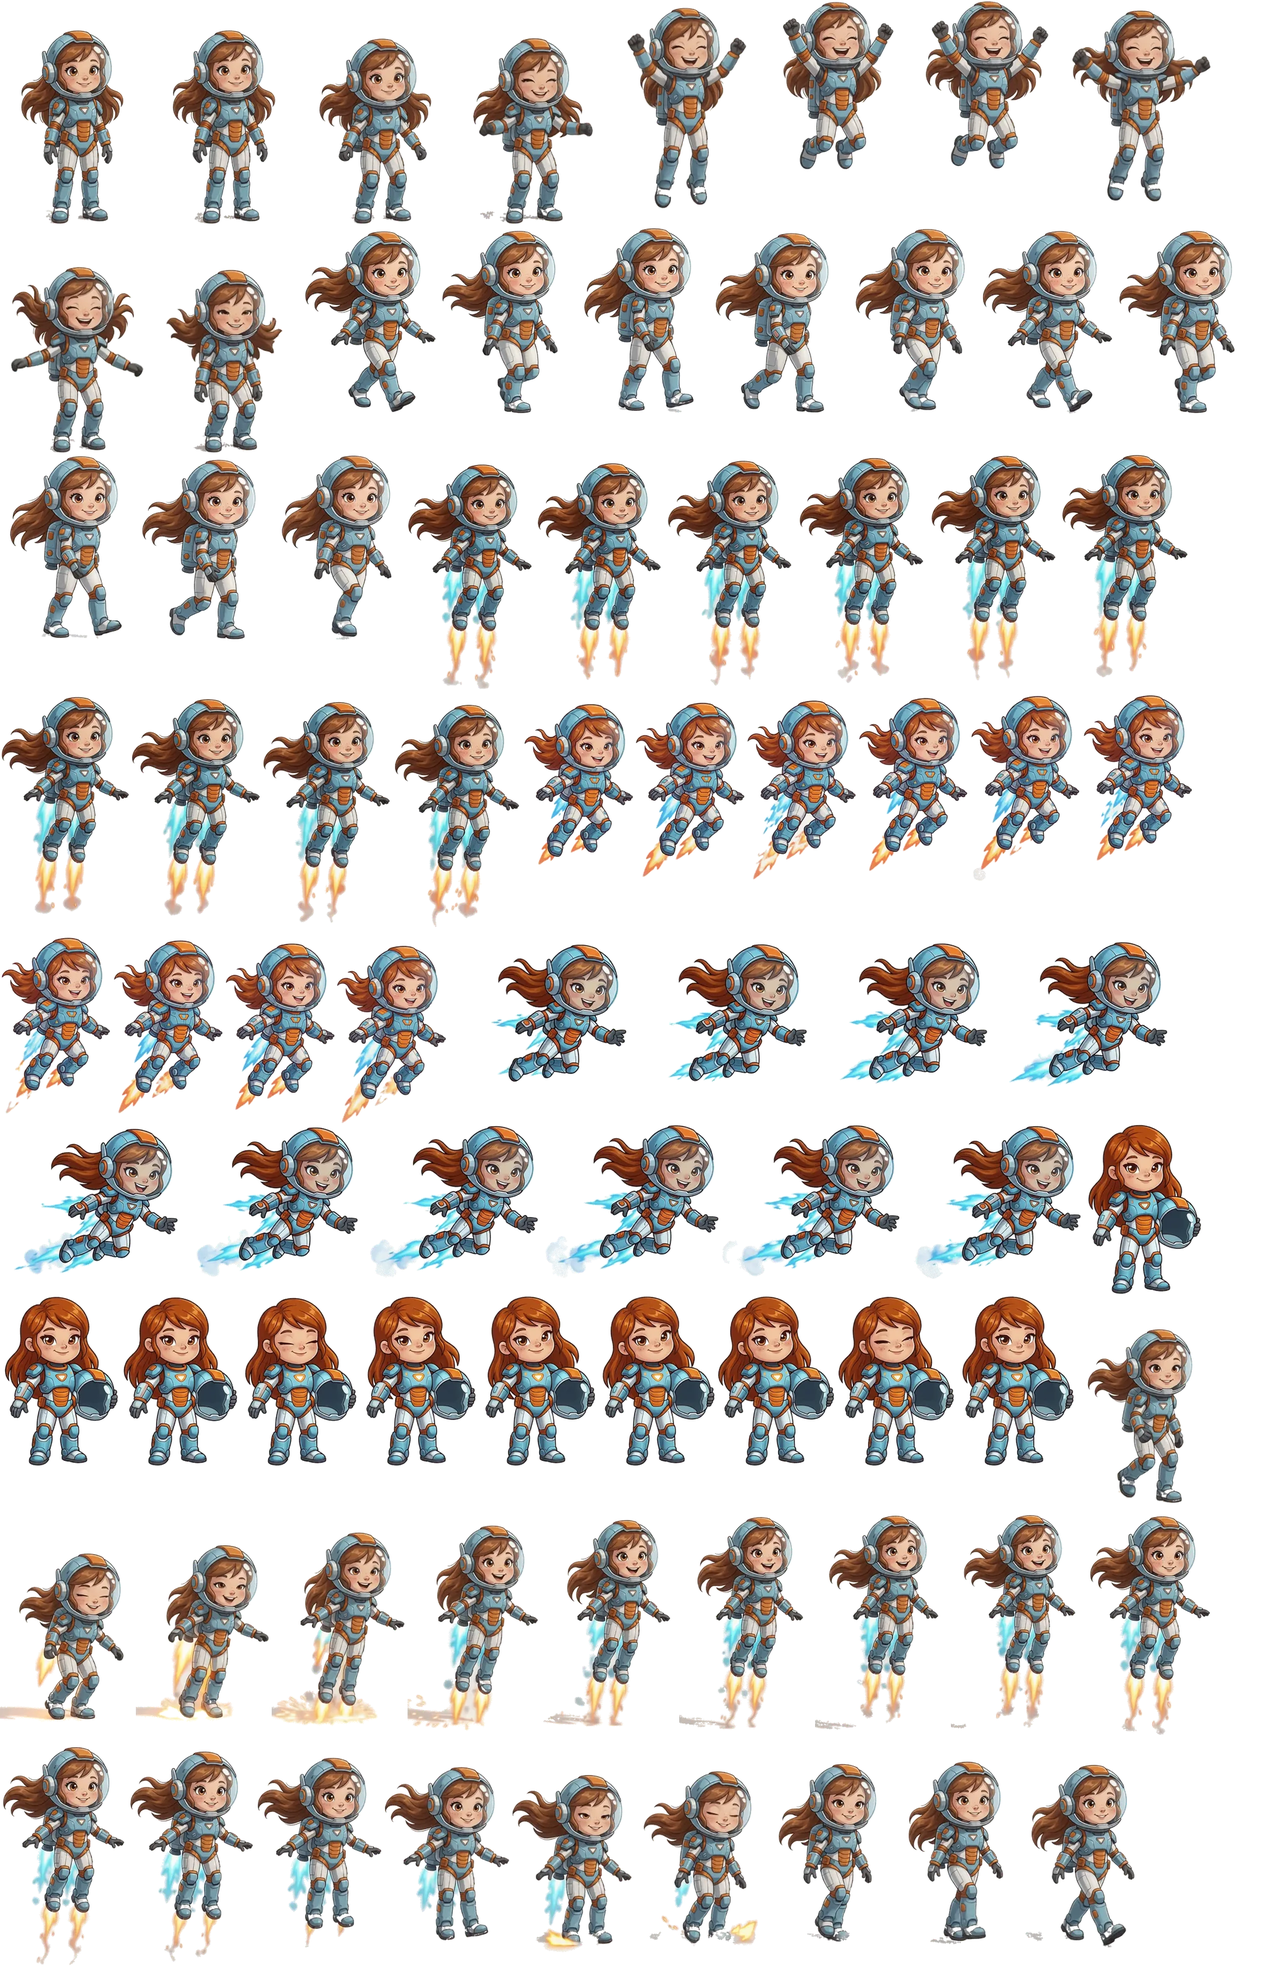
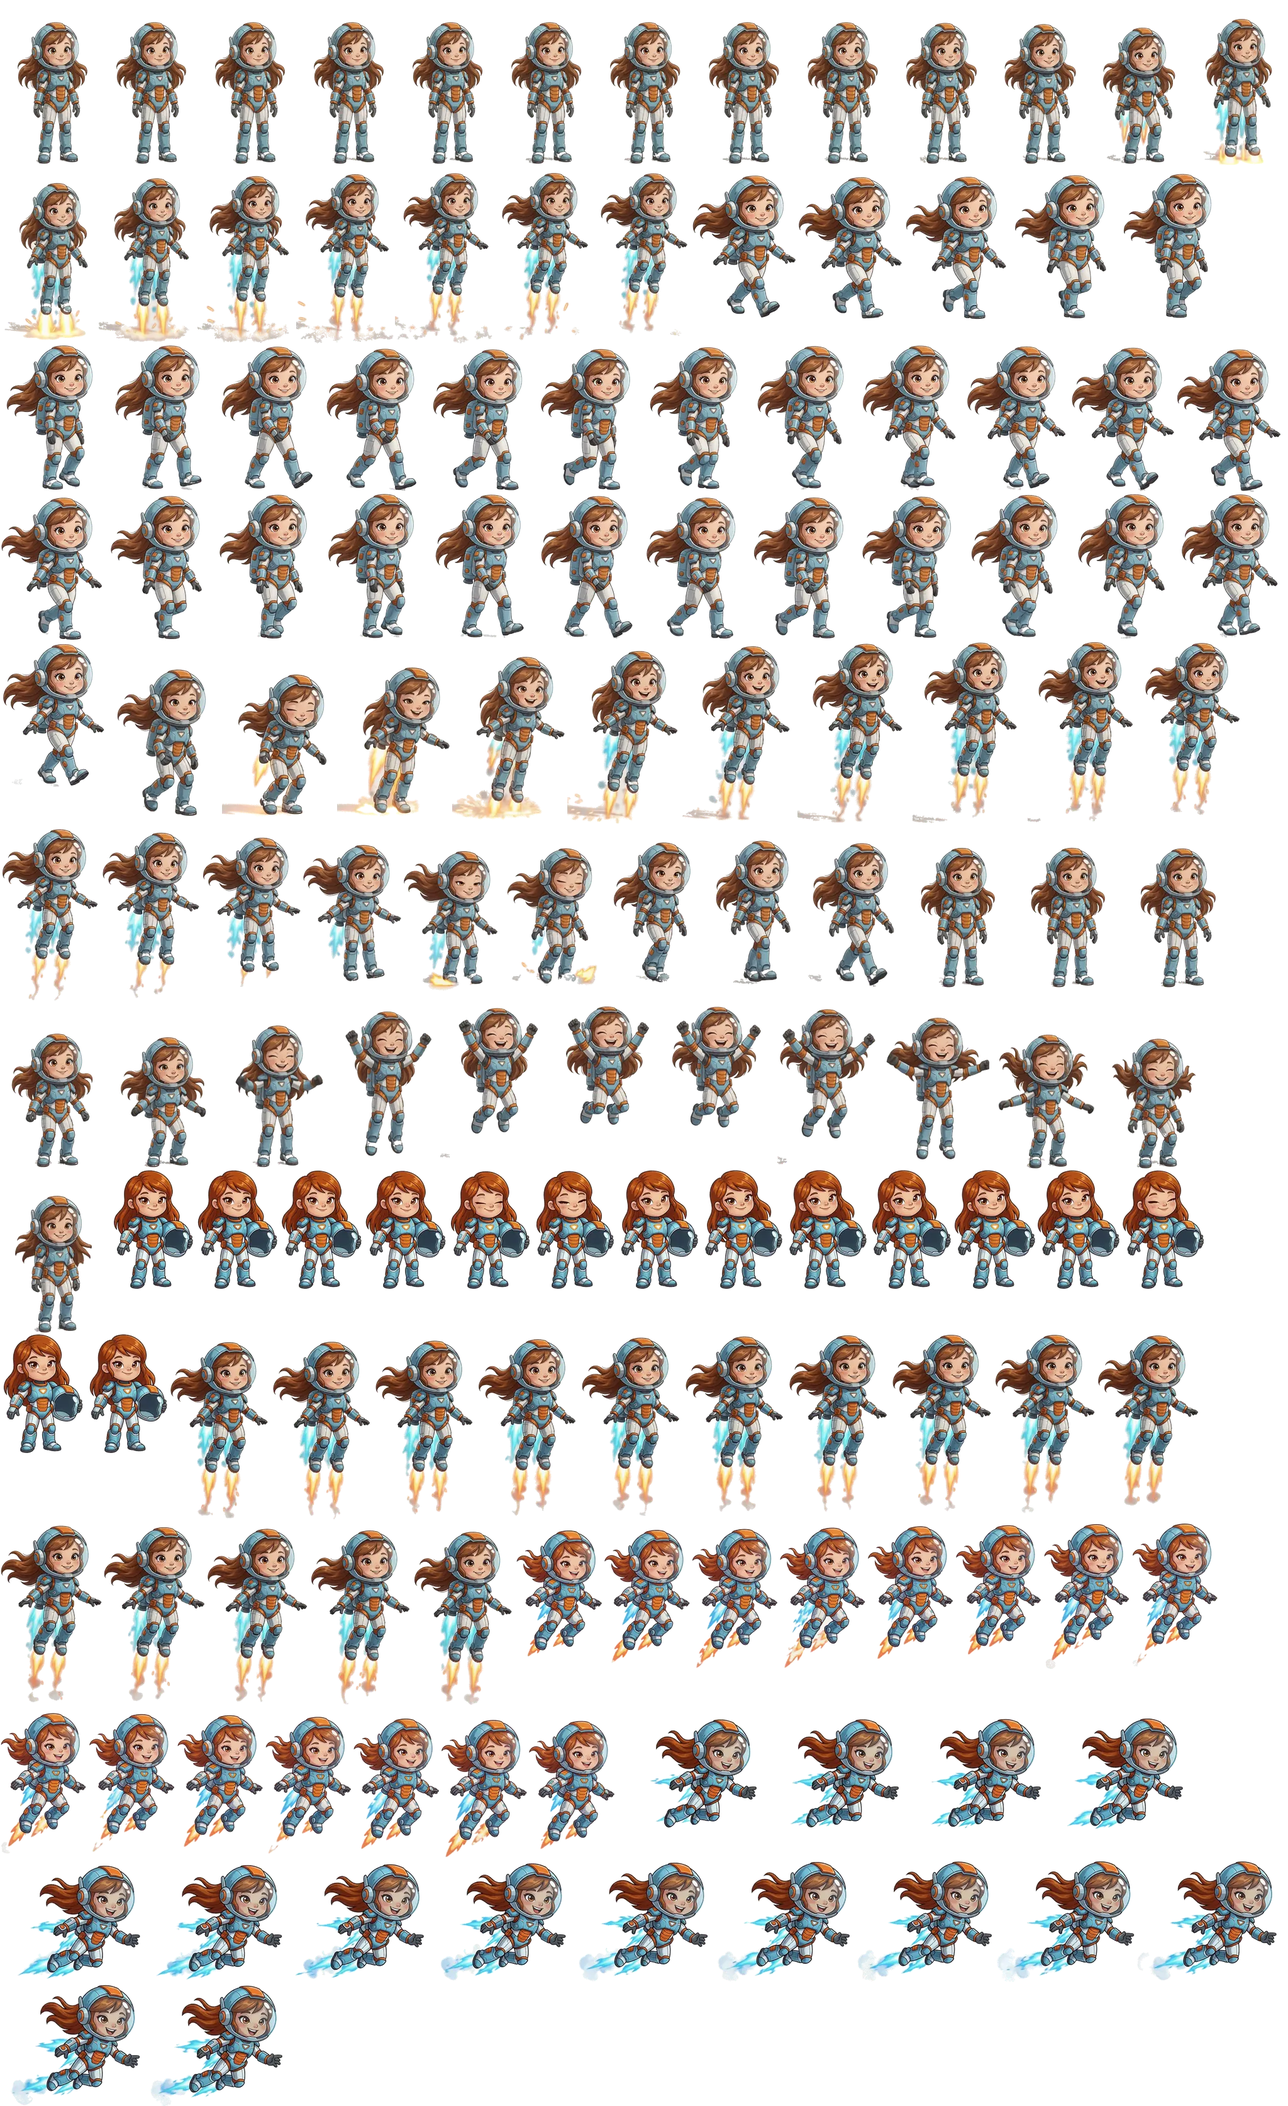
Rose : arrêt, statique -> vol et vol -> statique ; page d'essai rose.html avec tous les enchaînements
Claude-Session: https://claude.ai/code/session_01FhTJbNJJAdhQd32yrScHvE

diff --git a/rose.html b/rose.html
@@ -1,0 +1,180 @@
+<!DOCTYPE html>
+<html lang="fr">
+<head>
+<meta charset="utf-8">
+<meta name="viewport" content="width=device-width, initial-scale=1, viewport-fit=cover, user-scalable=no">
+<title>Rose — essai des mouvements</title>
+<style>
+  html, body { margin: 0; height: 100%; overflow: hidden; background: #140f3a; touch-action: none; -webkit-user-select: none; user-select: none; font-family: system-ui, sans-serif; }
+  canvas { display: block; width: 100vw; height: 100dvh; }
+  .pad { position: fixed; bottom: max(18px, env(safe-area-inset-bottom)); display: flex; gap: 14px; }
+  .pad.l { left: max(18px, env(safe-area-inset-left)); }
+  .pad.r { right: max(18px, env(safe-area-inset-right)); align-items: flex-end; }
+  .b { width: clamp(64px, 17vmin, 104px); height: clamp(64px, 17vmin, 104px); border-radius: 50%; border: 0; font-size: clamp(28px, 8vmin, 46px); color: #fff;
+       background: linear-gradient(#69d36a, #2f9c3b); box-shadow: 0 6px 0 #1f6e2a, 0 10px 18px rgba(0,0,0,.35); -webkit-tap-highlight-color: transparent; }
+  .b.on { transform: translateY(4px); box-shadow: 0 2px 0 #1f6e2a; }
+  .b.fly { background: linear-gradient(#ffb04a, #f2702c); box-shadow: 0 6px 0 #b4471a, 0 10px 18px rgba(0,0,0,.35); width: clamp(84px, 23vmin, 136px); height: clamp(84px, 23vmin, 136px); }
+  .b.fly.on { box-shadow: 0 2px 0 #b4471a; }
+  .b.win { background: linear-gradient(#ffe46b, #f2b81c); box-shadow: 0 5px 0 #b0800d; width: clamp(50px, 12vmin, 70px); height: clamp(50px, 12vmin, 70px); font-size: clamp(22px, 6vmin, 32px); }
+  .tip { position: fixed; top: 10px; left: 50%; transform: translateX(-50%); color: #dfe3ff; font-size: 14px; opacity: .8; text-align: center; pointer-events: none; }
+</style>
+</head>
+<body>
+<canvas id="c"></canvas>
+<div class="tip">Essai de Rose · ◀ ▶ marcher · 🚀 garder appuyé pour voler, lâcher pour redescendre</div>
+<div class="pad l"><button class="b" id="bl" aria-label="Gauche">◀</button><button class="b" id="br" aria-label="Droite">▶</button></div>
+<div class="pad r"><button class="b win" id="bw" aria-label="Victoire">★</button><button class="b fly" id="bf" aria-label="Voler">🚀</button></div>
+<script>
+(() => {
+  // ---------- planche de Rose (assets/rose.webp + rose.json) ----------
+  const img = new Image(); img.src = 'assets/rose.webp?v=1';
+  let F = null; fetch('assets/rose.json?v=1').then(r => r.json()).then(j => { F = j; });
+  const N = (p) => { let n = 0; while (F[p + n]) n++; return n; };
+
+  // ---------- réglages (en pixels de la planche : Rose mesure ~230 px du casque aux pieds) ----------
+  const WALK = 190;            // marche avec l'exosquelette : lente et posée
+  const WALK_ACC = 300, WALK_DEC = 520;
+  const STEP_PX = 14.5;        // distance parcourue par image de marche (pieds qui ne glissent pas)
+  const FLY = 360, DASH_AT = 290, FLY_ACC = 520;
+  const RISE = 260, SINK = 200;
+  const ceil = () => Math.max(120, (GROUND - H * .1) / zoom - 250);   // Rose reste toujours visible en haut de l'écran
+  const FADE = .13;            // fondu entre deux animations différentes
+  const FPS = { idle: 6, hover: 12, fly: 12, dash: 12, lift: 15, up: 14, down: 14, drop: 15, win: 11 };
+
+  const cv = document.getElementById('c'), ctx = cv.getContext('2d');
+  let W = 0, H = 0, dpr = 1, zoom = 1, GROUND = 0;
+  function resize() { dpr = Math.min(2, devicePixelRatio || 1); W = innerWidth; H = innerHeight; cv.width = W * dpr; cv.height = H * dpr; zoom = (H * .30) / 230; }
+  addEventListener('resize', resize); resize();
+
+  // ---------- commandes ----------
+  const key = { l: false, r: false, fly: false };
+  const hold = (id, k) => { const b = document.getElementById(id);
+    const on = (e) => { e.preventDefault(); key[k] = true; b.classList.add('on'); }, off = (e) => { e.preventDefault(); key[k] = false; b.classList.remove('on'); };
+    b.addEventListener('pointerdown', on); b.addEventListener('pointerup', off); b.addEventListener('pointercancel', off); b.addEventListener('pointerleave', off); };
+  hold('bl', 'l'); hold('br', 'r'); hold('bf', 'fly');
+  document.getElementById('bw').addEventListener('click', () => { if (rose.mode === 'ground' && !rose.anim) play('win', 'ground'); });
+  addEventListener('keydown', (e) => { if (e.key === 'ArrowLeft') key.l = true; if (e.key === 'ArrowRight') key.r = true; if (e.key === ' ' || e.key === 'ArrowUp') key.fly = true; });
+  addEventListener('keyup', (e) => { if (e.key === 'ArrowLeft') key.l = false; if (e.key === 'ArrowRight') key.r = false; if (e.key === ' ' || e.key === 'ArrowUp') key.fly = false; });
+
+  // ---------- Rose ----------
+  // mode : 'ground' (au sol), 'air' (en vol), 'trans' (une animation de jonction est en cours)
+  // y = hauteur des pieds au-dessus du sol ; en vol, l'image est posée sur cette hauteur
+  const rose = { x: 0, y: 0, vx: 0, vy: 0, face: 1, mode: 'ground', anim: null, walkDist: 0, t: 0, airPose: 'hover', airT: 0 };
+  let shown = null, fadeFrom = null, fadeT = 0;
+  const topOf = (k) => F[k].top;
+  function play(name, then, opts = {}) { rose.anim = { name, t: 0, then, ...opts }; if (name !== 'win') rose.mode = 'trans'; }
+
+  function update(dt) {
+    const dir = (key.r ? 1 : 0) - (key.l ? 1 : 0);
+    if (dir) rose.face = dir;
+    rose.t += dt; rose.airT += dt;
+    const a = rose.anim;
+    if (rose.mode === 'ground') {
+      const target = a ? 0 : dir * WALK;
+      const acc = Math.abs(target) > Math.abs(rose.vx) || Math.sign(target) !== Math.sign(rose.vx) ? WALK_ACC : WALK_DEC;
+      rose.vx += Math.max(-acc * dt, Math.min(acc * dt, target - rose.vx));
+      rose.walkDist += Math.abs(rose.vx) * dt;
+      if (key.fly && !a) {                                       // décollage : depuis la marche ou depuis l'arrêt
+        if (Math.abs(rose.vx) > 40) play('up', 'air', { vx0: rose.vx }); else play('lift', 'air');
+      }
+    } else if (rose.mode === 'air') {
+      const ty = key.fly ? RISE : -SINK;
+      rose.vy += Math.max(-600 * dt, Math.min(600 * dt, ty - rose.vy));
+      rose.y = Math.min(ceil(), rose.y + rose.vy * dt); if (rose.y >= ceil() && rose.vy > 0) rose.vy = 0;
+      const target = dir * FLY;
+      rose.vx += Math.max(-FLY_ACC * dt, Math.min(FLY_ACC * dt, target - rose.vx));
+      const sp = Math.abs(rose.vx), want = sp < 60 ? 'hover' : sp < DASH_AT ? 'fly' : 'dash';
+      if (want !== rose.airPose) { rose.airPose = want; rose.airT = 0; }
+      // atterrissage : on lance la jonction juste au bon moment pour que l'image raccorde
+      if (rose.vy < 0) {
+        const moving = sp > 60, name = moving ? 'down' : 'drop';
+        const startTop = moving ? topOf('rose_down0') : topOf('rose_lift' + (N('rose_lift') - 1));
+        const hAt = startTop - topOf('rose_hover0');
+        if (rose.y <= hAt) { rose.y = 0; rose.vy = 0; play(name, 'ground', { vx0: rose.vx }); }
+      }
+    } else if (a) {                                               // jonction en cours : c'est l'animation qui mène
+      const n = N('rose_' + (a.name === 'drop' ? 'lift' : a.name)), dur = n / FPS[a.name], k = Math.min(1, a.t / dur);
+      if (a.name === 'up') { rose.vx = a.vx0 + (rose.face * FLY * .55 - a.vx0) * k * k; }
+      else if (a.name === 'down') { rose.vx = a.vx0 + (rose.face * WALK * (dir ? 1 : .3) - a.vx0) * k; }
+      else { rose.vx *= Math.pow(.02, dt); }
+    }
+    if (a) {
+      a.t += dt;
+      const n = N('rose_' + (a.name === 'drop' ? 'lift' : a.name));
+      if (a.t >= n / FPS[a.name]) {
+        rose.anim = null;
+        if (a.then === 'air') {                                   // on reprend le vol exactement à la hauteur où l'animation s'arrête
+          const last = 'rose_' + a.name + (n - 1);
+          rose.y = topOf(last) - topOf('rose_hover0'); rose.vy = 120; rose.mode = 'air'; rose.airPose = Math.abs(rose.vx) < 60 ? 'hover' : 'fly'; rose.airT = 0;
+        } else { rose.mode = 'ground'; rose.y = 0; if (a.name === 'down') rose.walkDist = 0; }
+      }
+    }
+    rose.x += rose.vx * dt;
+  }
+
+  // quelle image afficher
+  function frame() {
+    const a = rose.anim;
+    if (a) {
+      if (a.name === 'drop') { const n = N('rose_lift'), i = Math.min(n - 1, Math.floor(a.t * FPS.drop)); return { k: 'rose_lift' + (n - 1 - i), set: 'drop', ground: true }; }
+      const n = N('rose_' + a.name), i = Math.min(n - 1, Math.floor(a.t * FPS[a.name]));
+      return { k: 'rose_' + a.name + i, set: a.name, ground: true };
+    }
+    if (rose.mode === 'air') { const p = rose.airPose, n = N('rose_' + p); return { k: 'rose_' + p + (Math.floor(rose.airT * FPS[p]) % n), set: p }; }
+    if (Math.abs(rose.vx) > 8) { const n = N('rose_walk'); return { k: 'rose_walk' + (Math.floor(rose.walkDist / STEP_PX) % n), set: 'walk', ground: true }; }
+    const n = N('rose_idle'); return { k: 'rose_idle' + (Math.floor(rose.t * FPS.idle) % n), set: 'idle', ground: true };
+  }
+
+  // ---------- décor de la Lune ----------
+  const stars = Array.from({ length: 140 }, () => ({ x: Math.random() * 3000, y: Math.random(), r: Math.random() < .2 ? 2 : 1, tw: Math.random() * 6 }));
+  const craters = Array.from({ length: 40 }, (_, i) => ({ x: i * 260 + Math.random() * 120, r: 30 + Math.random() * 60 }));
+  function drawBg(cam, time) {
+    const g = ctx.createLinearGradient(0, 0, 0, H); g.addColorStop(0, '#0e0a30'); g.addColorStop(1, '#2b2370');
+    ctx.fillStyle = g; ctx.fillRect(0, 0, W, H);
+    for (const s of stars) { const x = ((s.x - cam * .1) % 3000 + 3000) % 3000 * (W / 1500) - 0; if (x > W) continue; ctx.globalAlpha = .55 + .45 * Math.sin(time * 2 + s.tw); ctx.fillStyle = '#fff6d8'; ctx.fillRect(x, s.y * GROUND * .9, s.r, s.r); }
+    ctx.globalAlpha = 1;
+    const ex = W * .78 - cam * .03, ey = H * .18, er = Math.min(W, H) * .08;   // la Terre au loin
+    ctx.fillStyle = '#3b8be0'; ctx.beginPath(); ctx.arc(ex, ey, er, 0, Math.PI * 2); ctx.fill();
+    ctx.fillStyle = '#5fc46a'; ctx.beginPath(); ctx.ellipse(ex - er * .3, ey - er * .1, er * .35, er * .25, .5, 0, Math.PI * 2); ctx.ellipse(ex + er * .35, ey + er * .3, er * .25, er * .18, -.4, 0, Math.PI * 2); ctx.fill();
+    ctx.fillStyle = 'rgba(255,255,255,.75)'; ctx.beginPath(); ctx.ellipse(ex + er * .1, ey - er * .55, er * .4, er * .1, 0, 0, Math.PI * 2); ctx.fill();
+    ctx.fillStyle = '#b9bccd'; ctx.fillRect(0, GROUND, W, H - GROUND);
+    ctx.fillStyle = '#d4d6e3'; ctx.fillRect(0, GROUND, W, 6);
+    for (const c of craters) { const x = (c.x - cam) % (40 * 260); const sx = ((x % 10400) + 10400) % 10400 * zoom; if (sx > W + 100) continue;
+      ctx.fillStyle = '#a3a6ba'; ctx.beginPath(); ctx.ellipse(sx, GROUND + 26 + c.r * .15, c.r * zoom, c.r * .25 * zoom, 0, 0, Math.PI * 2); ctx.fill();
+      ctx.fillStyle = '#c6c8d6'; ctx.beginPath(); ctx.ellipse(sx, GROUND + 22 + c.r * .15, c.r * zoom * .85, c.r * .18 * zoom, 0, 0, Math.PI); ctx.fill(); }
+  }
+
+  function drawRose(px, py) {
+    const f = frame(); if (!F[f.k]) return;
+    const gy0 = f.ground ? GROUND : GROUND - rose.y * zoom;
+    if (f.k !== shown) { const prevSet = shown && shown.replace(/\d+$/, ''); if (shown && prevSet !== f.k.replace(/\d+$/, '')) { fadeFrom = shown; fadeT = 0; fadeGy = lastGy; } shown = f.k; }
+    const draw = (k, alpha, gy) => { const q = F[k]; ctx.save(); ctx.globalAlpha = alpha; ctx.translate(px, gy); ctx.scale(rose.face * zoom, zoom);
+      ctx.drawImage(img, q.x, q.y, q.w, q.h, -q.ax, -q.ay, q.w, q.h); ctx.restore(); };
+    const gy = gy0;
+    // ombre au sol, plus petite quand Rose est haute
+    const h = f.ground ? 0 : rose.y, sh = Math.max(.25, 1 - h / 500);
+    ctx.fillStyle = `rgba(40,40,80,${.28 * sh})`; ctx.beginPath(); ctx.ellipse(px, GROUND + 4, 55 * zoom * sh, 12 * zoom * sh, 0, 0, Math.PI * 2); ctx.fill();
+    if (fadeFrom && fadeT < FADE) { const k = fadeT / FADE; draw(f.k, 1, gy); draw(fadeFrom, 1 - k * k * (3 - 2 * k), fadeGy); }
+    else { fadeFrom = null; draw(f.k, 1, gy); }
+    lastGy = gy;
+  }
+  let fadeGy = 0, lastGy = 0;
+
+  let last = performance.now(), cam = 0;
+  function loop(now) {
+    const dt = Math.min(.05, (now - last) / 1000); last = now; fadeT += dt;
+    ctx.setTransform(dpr, 0, 0, dpr, 0, 0);
+    GROUND = H * .74;
+    if (F && img.complete) {
+      update(dt);
+      cam += ((rose.x - (W * .4) / zoom) - cam) * Math.min(1, dt * 4);
+      drawBg(cam, now / 1000);
+      drawRose((rose.x - cam) * zoom, 0);
+    }
+    requestAnimationFrame(loop);
+  }
+  requestAnimationFrame(loop);
+})();
+</script>
+</body>
+</html>

diff --git a/tools/rose/build2.py b/tools/rose/build2.py
@@ -1,0 +1,38 @@
+# Planche de Rose : chaque animation mise à la même échelle (taille du casque → pieds) et calée sur le sol.
+from PIL import Image; import json, os
+FINAL=.55
+# nom, fichiers, échelle, (x du casque, y du sol dans le GIF découpé), images gardées
+A=[('rose_idle','statvol',.88,(191,538),range(0,10)),
+   ('rose_lift','statvol',.88,(192,538),range(10,30,2)),     # statique -> vol (à l'envers : vol -> statique)
+   ('rose_walk','marche',.964,(202,442),range(0,30)),
+   ('rose_up','decollage',.99,(201,500),range(12,30,2)),      # marche -> vol
+   ('rose_down','atterrissage',.91,(190,511),range(10,30,2)), # vol -> marche
+   ('rose_win','victoire',.873,(193,540),range(0,30,2)),
+   ('rose_pick','choix',.6/FINAL*.7,None,range(0,30,2))]
+FEET=424*.964
+AIR=[('rose_hover','stationnaire',.93,(197,24),range(0,30,2)),('rose_fly','vol_lent',.82,(198,29),range(0,30,2)),('rose_dash','vol_rapide',1.02,(321,25),range(0,30,2))]
+ims=[]
+for nm,src,s,anc,rg in A:
+    k=s*FINAL
+    for j,i in enumerate(rg):
+        im=Image.open(f'{src}_{i:02d}.png'); im=im.resize((round(im.width*k),round(im.height*k)),Image.LANCZOS)
+        ax,ay=(anc[0]*k,anc[1]*k) if anc else (im.width/2,im.height)
+        ims.append((f'{nm}{j}',im,ax,ay))
+for nm,src,s,(px,py),rg in AIR:
+    k=s*FINAL
+    for j,i in enumerate(rg):
+        im=Image.open(f'{src}_{i:02d}.png'); im=im.resize((round(im.width*k),round(im.height*k)),Image.LANCZOS)
+        ims.append((f'{nm}{j}',im,px*k,(py+FEET/s)*k))
+Wt=2048; x=y=rowh=0; place={}
+for nm,im,ax,ay in ims:
+    if x+im.width+2>Wt: x=0; y+=rowh+2; rowh=0
+    place[nm]=(x,y); x+=im.width+2; rowh=max(rowh,im.height)
+At=Image.new('RGBA',(Wt,y+rowh)); fr={}
+for nm,im,ax,ay in ims:
+    X,Y=place[nm]; At.alpha_composite(im,(X,Y)); fr[nm]={'x':X,'y':Y,'w':im.width,'h':im.height,'ax':round(ax,1),'ay':round(ay,1)}
+# hauteur du casque au-dessus du sol pour chaque image (sert à raccorder les animations)
+for nm,f in fr.items():
+    bb=At.crop((f['x'],f['y'],f['x']+f['w'],f['y']+f['h'])).getbbox(); f['top']=round(f['ay']-bb[1],1)
+At.save('rose.webp','WEBP',quality=78,method=6); json.dump(fr,open('rose.json','w'),separators=(',',':'))
+print(At.size, os.path.getsize('rose.webp')//1024,'Ko', len(fr))
+for n in ['rose_idle0','rose_lift0','rose_lift9','rose_walk0','rose_up0','rose_up8','rose_hover0','rose_down0','rose_down9','rose_win0']: print(n, fr[n]['top'])

diff --git a/tools/rose/cut_s.py b/tools/rose/cut_s.py
@@ -1,0 +1,34 @@
+from PIL import Image, ImageSequence; import numpy as np, json
+from scipy import ndimage
+U='/mnt/user-data/uploads/'
+import sys
+G={'statvol':'0cb28ff4'}
+info={}
+for n,f in G.items():
+    frames=[x.convert('RGB') for x in ImageSequence.Iterator(Image.open(U+f+'-image.gif'))]
+    outs=[]
+    for i,fr in enumerate(frames):
+        a=np.asarray(fr).astype(float); h,w,_=a.shape
+        bg=np.median(np.concatenate([a[:6].reshape(-1,3),a[-6:].reshape(-1,3),a[:,:6].reshape(-1,3),a[:,-6:].reshape(-1,3)]),0)
+        d=np.sqrt(((a-bg)**2).sum(2))
+        near=d<30
+        mx=a.max(2); mn=a.min(2); yy=np.mgrid[0:h,0:w][0]
+        near|=(yy>h*.72)&(mx-mn<22)&(mx>75)&(mx<250)          # ombre grise au sol : traitée comme du fond
+        lab,_=ndimage.label(near); border=set(np.unique(np.concatenate([lab[0],lab[-1],lab[:,0],lab[:,-1]])))-{0}
+        bgm=np.isin(lab,list(border))
+        al=np.where(bgm,0.,255.)
+        edge=bgm&ndimage.binary_dilation(~bgm,iterations=2); al[edge]=np.clip((d[edge]-8)/30*255,0,255)
+        fg=al>60; l2,nn=ndimage.label(fg)
+        if nn>1:
+            sz=ndimage.sum(fg,l2,range(1,nn+1)); keep=np.isin(l2,1+np.where(sz>=sz.max()*0.004)[0]); al[~ndimage.binary_dilation(keep,iterations=2)]=0
+        # dé-teinter le bord (retirer la couleur du fond)
+        A=(al/255)[...,None]; rgb=np.where(A>0.02,(a-bg*(1-A))/np.maximum(A,.02),a); rgb=np.clip(rgb,0,255)
+        outs.append(np.dstack([rgb,al]).astype(np.uint8))
+    # boîte commune à toute l'animation (garde le mouvement interne)
+    union=np.zeros(outs[0].shape[:2],bool)
+    for o in outs: union|=o[...,3]>40
+    ys,xs=np.nonzero(union); bb=(xs.min(),ys.min(),xs.max()+1,ys.max()+1)
+    for i,o in enumerate(outs): Image.fromarray(o,'RGBA').crop(bb).save(f'{n}_{i:02d}.png')
+    info[n]={'bb':[int(v) for v in bb],'n':len(outs)}
+    print(n,bb)
+json.dump(info,open('info_s.json','w'))

diff --git a/README.md b/README.md
@@ -127,3 +127,7 @@ Filou reste accroché à sa toile tant qu'on ne saute pas (le bouton SAUT cligno
 - 2e image d'animation (v0.53) : cases 35 à 40 de `monsters.webp` (`MON_ALT`), calées sur le dessin principal ; ailes qui battent (`MON_FLAP`, battements par seconde) pour la chauve-souris, la fée, les abeilles et le papillon ; la chenille fait sa bosse en rampant.
 - Sons des amis (v0.55) : `friendSound(m)` joue un petit son différent pour chacun des 15 monstres tranquilles et une note par couleur de flamme, quand il devient ami (fabriqués en code avec Web Audio, aucun fichier) ; il remplace le « ding » habituel et passe avant la voix qui compte (v0.56).
 - Nuage d'aide (v0.59) : après 2 chutes dans le même trou (`cloudHelp`), un petit nuage souriant attend dedans ; s'il rattrape le héros, il le fait rebondir jusqu'à l'autre bord (`cloudBounce`, trajectoire calculée). Un enfant qui réussit ne le voit jamais. Remis à zéro à chaque mission.
+
+## Rose (en préparation)
+- `assets/rose.webp` + `rose.json` : animations tirées des GIF (`tools/rose/`), toutes à la même échelle et calées sur le sol ; `top` = hauteur du casque au-dessus du sol, pour raccorder les animations.
+- `rose.html` : page d'essai des mouvements (pas encore dans le jeu). Marche lente d'exosquelette, pieds qui ne glissent pas ; décollage depuis l'arrêt ou depuis la marche, vol stationnaire / lent / rapide selon la vitesse, atterrissage vers l'arrêt ou vers la marche, victoire. Chaque changement passe par son animation de jonction, sinon par un fondu court.
